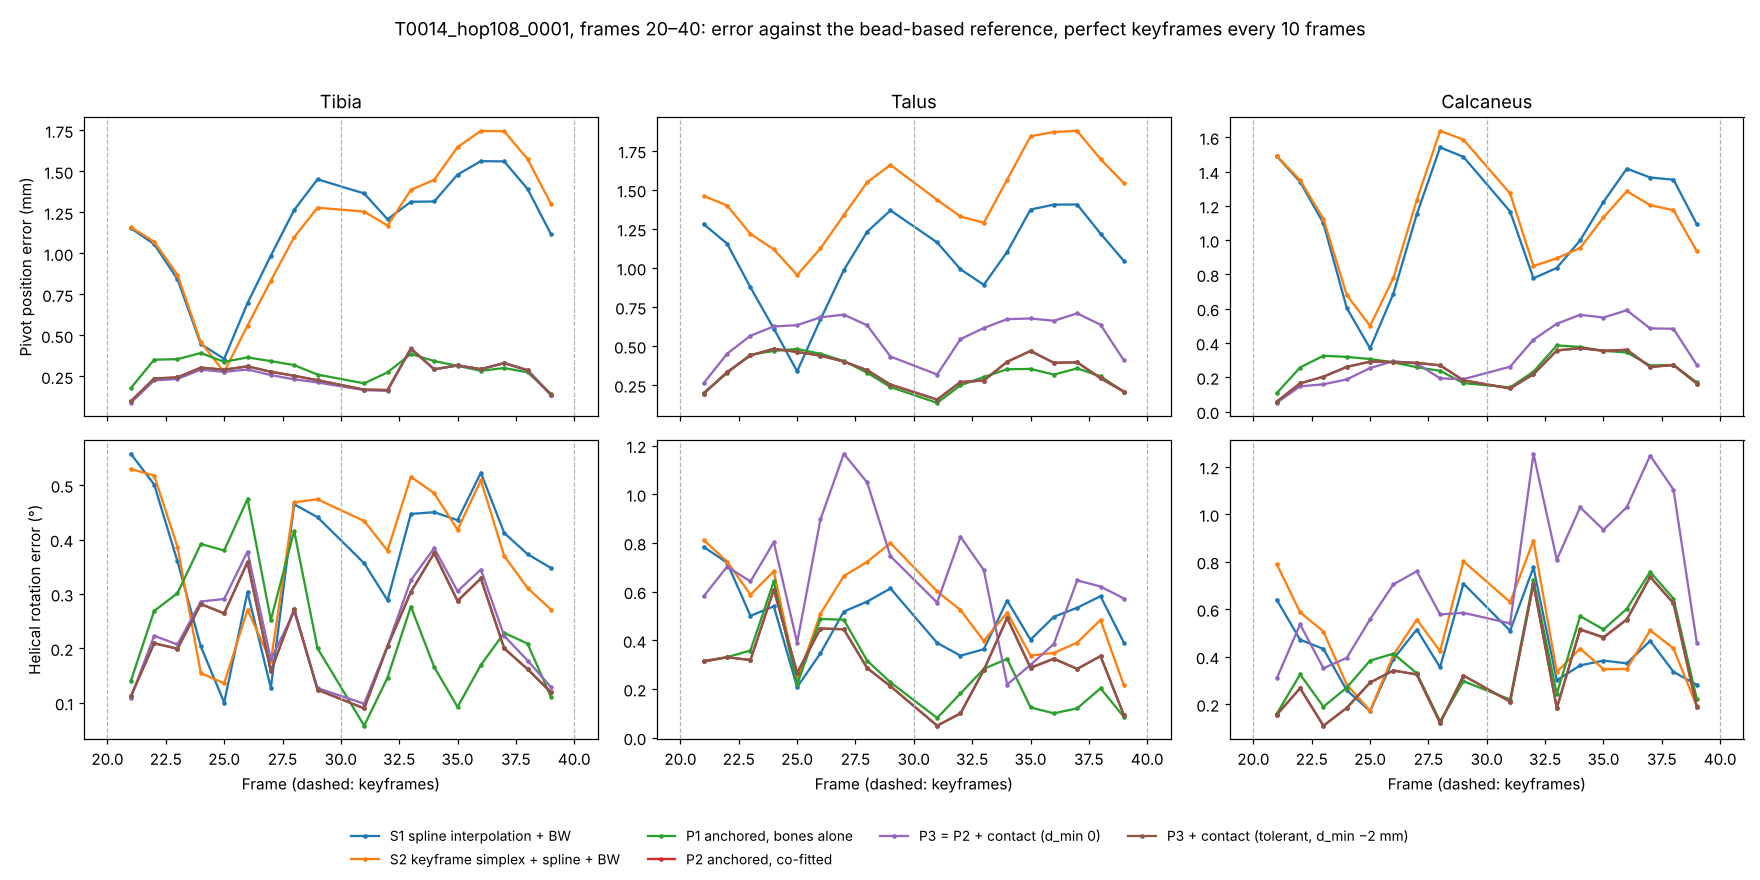
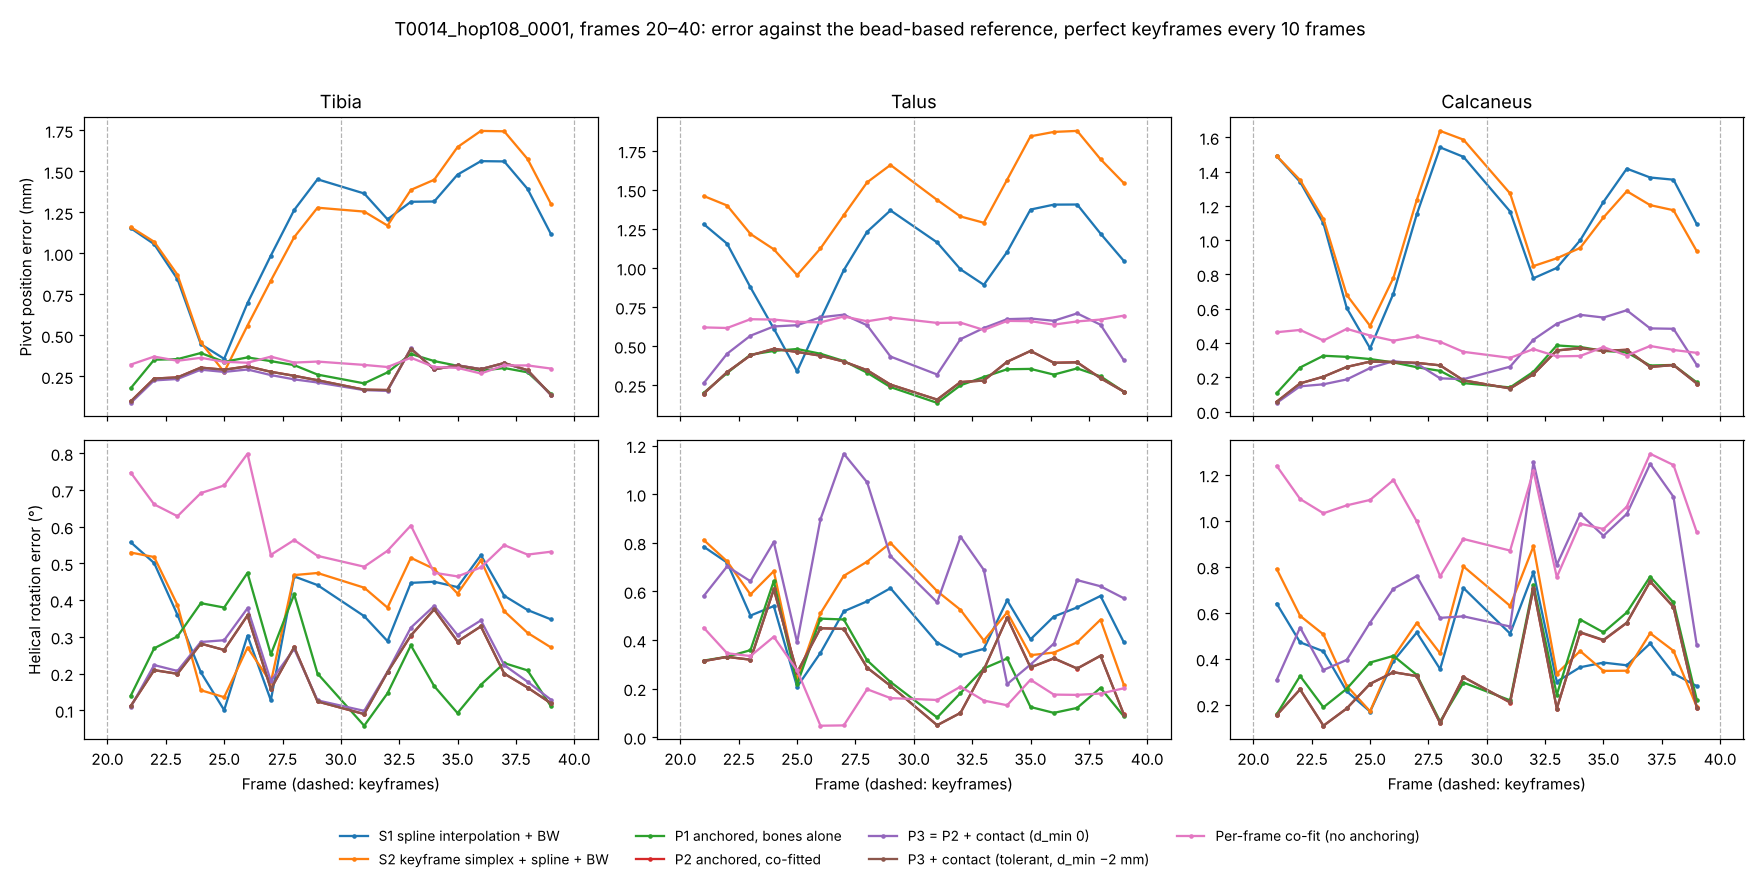
Update pilot scores with per-frame co-fit arm
Claude-Session: https://claude.ai/code/session_01JfvJhBuhVLNNbo2jK5Ak9k

diff --git a/pilot/welte_hop1/results/summary.md b/pilot/welte_hop1/results/summary.md
@@ -12,6 +12,7 @@ Median [max] over hidden frames 21–29, 31–39
 | P3 + contact (tolerant, d_min −2 mm) | 18 | 0.21 [0.38] | 0.28 [0.42] | 0.30 [0.61] | 0.37 [0.48] | 0.31 [0.74] | 0.26 [0.37] | -1.51 |
 | P2, DRR term only | 18 | 0.28 [0.53] | 0.38 [0.67] | 0.29 [0.53] | 0.63 [0.87] | 0.40 [0.83] | 0.34 [0.61] | -1.41 |
 | P2, frame-to-frame only | 18 | 0.20 [0.39] | 0.22 [0.53] | 0.38 [0.65] | 0.26 [0.57] | 0.22 [0.55] | 0.23 [0.56] | -1.67 |
+| Per-frame co-fit (no anchoring) | 18 | 0.54 [0.80] | 0.33 [0.37] | 0.19 [0.45] | 0.66 [0.69] | 1.05 [1.29] | 0.38 [0.48] | -1.18 |
 | S1_linear_raw | 18 | 0.37 [0.61] | 1.68 [2.65] | 0.44 [0.70] | 1.64 [2.36] | 0.49 [0.86] | 1.62 [2.04] | -1.69 |
 | S2_raw | 18 | 0.26 [0.59] | 0.55 [1.70] | 0.38 [0.62] | 0.95 [1.90] | 0.23 [0.52] | 0.66 [1.35] | -1.38 |
 
@@ -27,5 +28,6 @@ Median [max] over hidden frames 21–29, 31–39
 | P3 + contact (tolerant, d_min −2 mm) | 0.10 [0.23] | 0.13 [0.27] | 0.19 [0.36] | 0.27 [0.73] | 0.55 [0.71] |
 | P2, DRR term only | 0.12 [0.28] | 0.23 [0.42] | 0.27 [0.60] | 0.27 [0.67] | 0.51 [0.81] |
 | P2, frame-to-frame only | 0.07 [0.20] | 0.09 [0.24] | 0.18 [0.52] | 0.27 [0.58] | 0.43 [0.66] |
+| Per-frame co-fit (no anchoring) | 0.27 [0.35] | 0.40 [0.66] | 0.11 [0.23] | 0.57 [1.14] | 0.97 [1.24] |
 | S1_linear_raw | 0.82 [1.58] | 0.39 [1.62] | 0.33 [0.67] | 0.44 [0.63] | 0.32 [0.53] |
 | S2_raw | 0.35 [1.37] | 0.47 [1.14] | 0.38 [0.86] | 0.36 [0.71] | 0.31 [0.55] |
